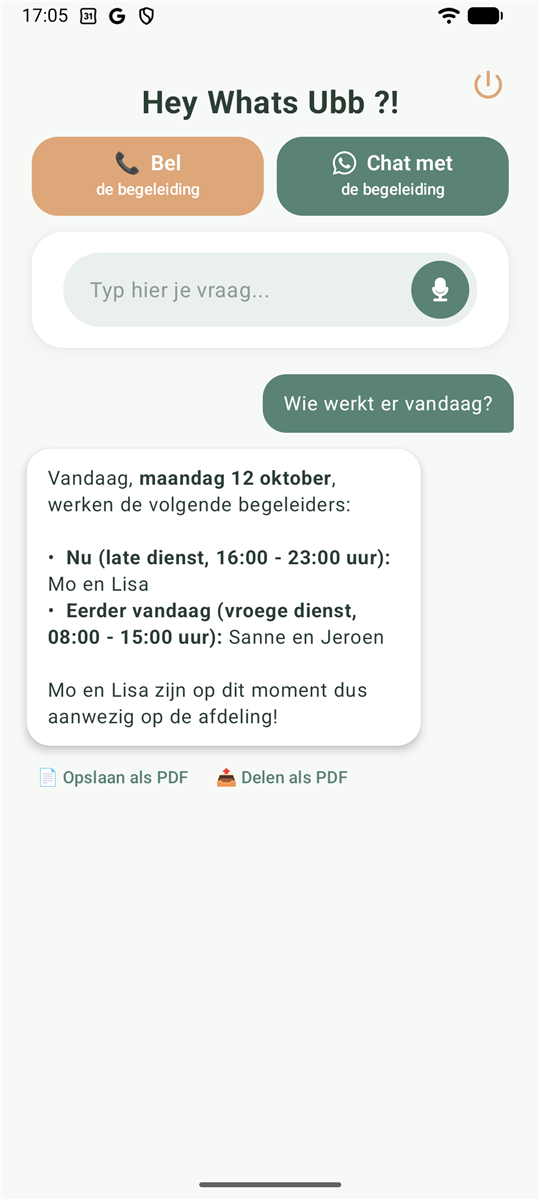
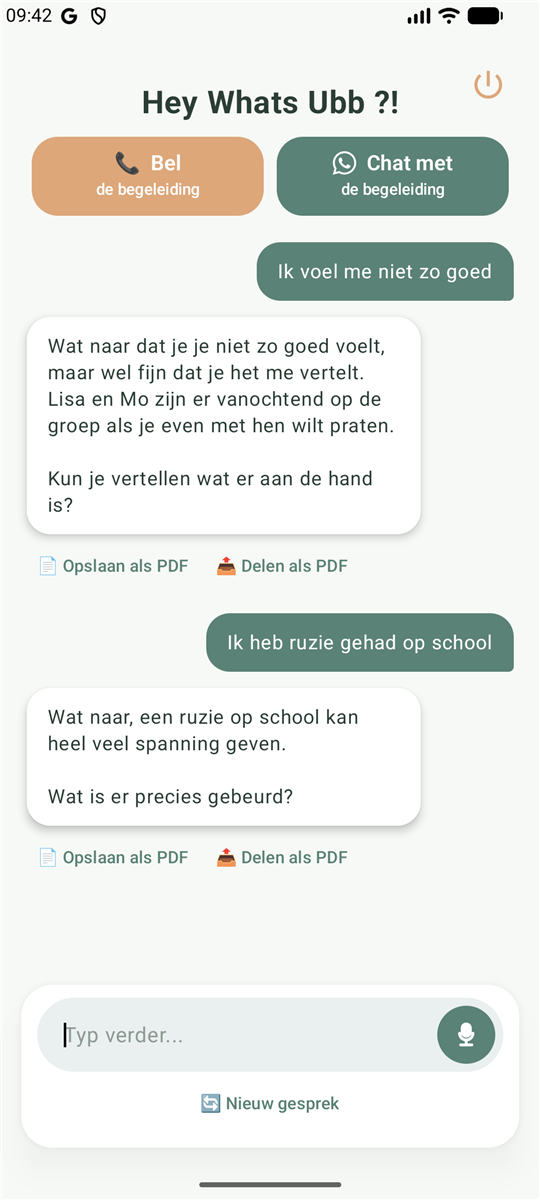
Versie 1.9.0: doorpraten zoals bij online AI-chats, AI vraagt door bij gevoelens
- Tijdens een gesprek staat het invoerveld onderaan; na elk antwoord staat de
  cursor weer klaar en Enter verstuurt. Knop 'Nieuw gesprek'.
- Bij gevoelens vraagt de AI eerst door voordat hij stappen noemt, en noemt hij
  de begeleiding niet meer in elk antwoord.
- README: nieuwe functies en screenshot van een gesprek.

diff --git a/app/src/main/java/com/example/whatsubb/ui/ChatScreen.kt b/app/src/main/java/com/example/whatsubb/ui/ChatScreen.kt
@@ -26,8 +26,10 @@ import androidx.compose.runtime.*
 import androidx.compose.ui.Alignment
 import androidx.compose.ui.Modifier
 import androidx.compose.ui.draw.shadow
+import androidx.compose.ui.focus.FocusRequester
 import androidx.compose.ui.graphics.Color
 import androidx.compose.ui.platform.LocalContext
+import androidx.compose.ui.platform.LocalSoftwareKeyboardController
 import androidx.compose.ui.res.painterResource
 import androidx.compose.ui.text.font.FontWeight
 import androidx.compose.ui.text.style.TextAlign
@@ -68,8 +70,8 @@ fun ChatScreen(
     val listState = rememberLazyListState()
     var pending by remember { mutableStateOf<Job?>(null) } // lopende vraag aan de AI
 
-    // Terug-toets tijdens een gesprek: gesprek wissen en terug naar het welkomstscherm met de voorbeeldvragen.
-    BackHandler(enabled = messages.isNotEmpty() || isLoading) {
+    // Gesprek wissen en terug naar het welkomstscherm met de voorbeeldvragen.
+    fun clearConversation() {
         pending?.cancel()
         messages.clear()
         history.clear()
@@ -77,9 +79,21 @@ fun ChatScreen(
         lastScrubCount = 0
     }
 
+    BackHandler(enabled = messages.isNotEmpty() || isLoading) { clearConversation() }
+
     LaunchedEffect(messages.size, isLoading) {
         val count = messages.size + if (isLoading) 1 else 0
         if (count > 0) listState.animateScrollToItem(count - 1)
+    }
+
+    // Tijdens een gesprek staat de cursor steeds klaar in het invoerveld onderaan, ook na een antwoord.
+    val inputFocus = remember { FocusRequester() }
+    val keyboard = LocalSoftwareKeyboardController.current
+    LaunchedEffect(messages.isNotEmpty() || isLoading, isLoading) {
+        if (messages.isNotEmpty() || isLoading) {
+            runCatching { inputFocus.requestFocus() }
+            keyboard?.show()
+        }
     }
 
     val speechLauncher = rememberLauncherForActivityResult(ActivityResultContracts.StartActivityForResult()) { result ->
@@ -278,6 +292,63 @@ fun ChatScreen(
                 Spacer(modifier = Modifier.height(if (messages.isEmpty()) 20.dp else 12.dp))
             }
 
+            val inConversation = messages.isNotEmpty() || isLoading
+            if (inConversation) {
+                // Gesprek zoals bij online AI-chats: berichten scrollen, het invoerveld blijft onderaan staan.
+                LazyColumn(
+                    state = listState,
+                    modifier = Modifier.fillMaxWidth().weight(1f),
+                    verticalArrangement = Arrangement.spacedBy(12.dp),
+                    contentPadding = PaddingValues(vertical = 8.dp, horizontal = 4.dp)
+                ) {
+                    items(messages) { msg ->
+                        Column {
+                            ChatBubble(message = msg)
+                            if (!msg.isUser && !msg.isError) {
+                                AnswerPdfActions(onSave = { savePdf(msg) }, onShare = { sharePdf(msg) })
+                            }
+                            if (msg.show113) Help113Card(onCall = { startCall(HELP_113_PHONE) }, onChat = ::open113Chat)
+                        }
+                    }
+                    if (isLoading) item { TypingBubble() }
+                }
+
+                PrivacyNotice(lastScrubCount)
+
+                Card(
+                    modifier = Modifier
+                        .fillMaxWidth()
+                        .padding(top = 4.dp)
+                        .shadow(
+                            elevation = 12.dp,
+                            shape = RoundedCornerShape(24.dp),
+                            spotColor = Color.Black.copy(alpha = 0.15f)
+                        ),
+                    shape = RoundedCornerShape(24.dp),
+                    colors = CardDefaults.cardColors(containerColor = Color.White)
+                ) {
+                    Column(modifier = Modifier.fillMaxWidth().padding(horizontal = 12.dp, vertical = 10.dp)) {
+                        ChatInputPill(
+                            value = questionText,
+                            onValueChange = { questionText = it },
+                            placeholder = "Typ verder...",
+                            enabled = !isLoading,
+                            onSend = { send() },
+                            onMic = ::startListening,
+                            focusRequester = inputFocus
+                        )
+                        TextButton(
+                            onClick = ::clearConversation,
+                            contentPadding = PaddingValues(horizontal = 8.dp),
+                            modifier = Modifier.align(Alignment.CenterHorizontally)
+                        ) {
+                            Text("🔄 Nieuw gesprek", fontSize = 13.sp, color = SagePrimary)
+                        }
+                    }
+                }
+                return@Column
+            }
+
             // Zwevende witte kaart met de vraag en het invoerveld
             Card(
                 modifier = Modifier
@@ -362,27 +433,6 @@ fun ChatScreen(
             }
 
             PrivacyNotice(lastScrubCount)
-
-            if (messages.isNotEmpty() || isLoading) {
-                Spacer(modifier = Modifier.height(12.dp))
-                LazyColumn(
-                    state = listState,
-                    modifier = Modifier.fillMaxWidth().weight(1f),
-                    verticalArrangement = Arrangement.spacedBy(12.dp),
-                    contentPadding = PaddingValues(vertical = 8.dp, horizontal = 4.dp)
-                ) {
-                    items(messages) { msg ->
-                        Column {
-                            ChatBubble(message = msg)
-                            if (!msg.isUser && !msg.isError) {
-                                AnswerPdfActions(onSave = { savePdf(msg) }, onShare = { sharePdf(msg) })
-                            }
-                            if (msg.show113) Help113Card(onCall = { startCall(HELP_113_PHONE) }, onChat = ::open113Chat)
-                        }
-                    }
-                    if (isLoading) item { TypingBubble() }
-                }
-            }
         }
 
         // Na de inhoud, zodat de knop bovenop ligt en tikken aankomen.

diff --git a/app/src/main/java/com/example/whatsubb/ui/Components.kt b/app/src/main/java/com/example/whatsubb/ui/Components.kt
@@ -7,11 +7,23 @@ import androidx.compose.foundation.layout.*
 import androidx.compose.foundation.shape.CircleShape
 import androidx.compose.foundation.shape.RoundedCornerShape
 import androidx.compose.foundation.text.BasicTextField
+import androidx.compose.foundation.text.KeyboardActions
+import androidx.compose.foundation.text.KeyboardOptions
 import androidx.compose.material3.*
 import androidx.compose.runtime.Composable
 import androidx.compose.ui.Alignment
 import androidx.compose.ui.Modifier
 import androidx.compose.ui.draw.shadow
+import androidx.compose.ui.focus.FocusRequester
+import androidx.compose.ui.focus.focusRequester
+import androidx.compose.ui.input.key.Key
+import androidx.compose.ui.input.key.KeyEventType
+import androidx.compose.ui.input.key.isShiftPressed
+import androidx.compose.ui.input.key.key
+import androidx.compose.ui.input.key.onPreviewKeyEvent
+import androidx.compose.ui.input.key.type
+import androidx.compose.ui.text.input.ImeAction
+import androidx.compose.ui.text.input.KeyboardCapitalization
 import androidx.compose.ui.geometry.CornerRadius
 import androidx.compose.ui.geometry.Offset
 import androidx.compose.ui.geometry.Size
@@ -55,7 +67,11 @@ fun ScreenHeader(title: String, actionLabel: String, onAction: () -> Unit, modif
     }
 }
 
-/** Grijze invoer-pil met een groene ronde knop: microfoon als het veld leeg is, anders verzenden. */
+/**
+ * Grijze invoer-pil met een groene ronde knop: microfoon als het veld leeg is, anders verzenden.
+ * Enter verstuurt ook. Het veld blijft typbaar als [enabled] false is (bijv. tijdens wachten op een antwoord),
+ * zodat de cursor en het toetsenbord blijven staan; alleen versturen kan dan niet.
+ */
 @Composable
 fun ChatInputPill(
     value: String,
@@ -63,8 +79,13 @@ fun ChatInputPill(
     placeholder: String,
     enabled: Boolean,
     onSend: () -> Unit,
-    onMic: () -> Unit
+    onMic: () -> Unit,
+    focusRequester: FocusRequester? = null
 ) {
+    fun trySend() {
+        if (enabled && value.isNotBlank()) onSend()
+    }
+
     Row(
         modifier = Modifier
             .fillMaxWidth()
@@ -81,9 +102,22 @@ fun ChatInputPill(
                 value = value,
                 onValueChange = onValueChange,
                 textStyle = TextStyle(fontSize = 16.sp, color = TextDark),
-                modifier = Modifier.fillMaxWidth(),
+                modifier = Modifier
+                    .fillMaxWidth()
+                    .then(if (focusRequester != null) Modifier.focusRequester(focusRequester) else Modifier)
+                    // Enter op een fysiek toetsenbord verstuurt; Shift+Enter geeft een nieuwe regel.
+                    .onPreviewKeyEvent { event ->
+                        if (event.key == Key.Enter && !event.isShiftPressed) {
+                            if (event.type == KeyEventType.KeyDown) trySend()
+                            true
+                        } else false
+                    },
                 maxLines = 5,
-                enabled = enabled
+                keyboardOptions = KeyboardOptions(
+                    capitalization = KeyboardCapitalization.Sentences,
+                    imeAction = ImeAction.Send
+                ),
+                keyboardActions = KeyboardActions(onSend = { trySend() })
             )
         }
         Spacer(modifier = Modifier.width(8.dp))

diff --git a/app/src/main/java/com/example/whatsubb/data/KnowledgeBase.kt b/app/src/main/java/com/example/whatsubb/data/KnowledgeBase.kt
@@ -124,9 +124,27 @@ class KnowledgeBase(
                 - Gebruik eenvoudige, korte zinnen (taalniveau B1). Wees vriendelijk, rustig en respectvol.
                 - De bewoner mag je alles vragen: over regels en afspraken, het weekmenu, wie er werkt,
                   hoe je iets moet doen (bijv. de was, een afspraak maken), en ook hoe de bewoner zich voelt.
-                - Gaat het over gevoelens (bang, verdrietig, boos, eenzaam, onrustig): luister eerst, laat merken
-                  dat je het begrijpt, stel hooguit één rustige vraag, en geef eventueel een kleine tip die nu kan helpen.
-                  Moedig aan om er ook met een begeleider over te praten; noem dan wie er volgens het rooster werkt als dat bekend is.
+                - Gaat het over gevoelens (bang, verdrietig, boos, eenzaam, onrustig, "niet fijn"): voer een echt
+                  gesprek in plaats van meteen een standaardantwoord met tips te geven. Dit gaat vóór "altijd een eerste
+                  helpende stap bieden" uit je rol.
+                  · Eerste antwoord: kort (2 à 3 zinnen). Laat merken dat je het hoort en dat het fijn is dat de bewoner
+                    het vertelt. Stel dan één open, nieuwsgierige vraag om te begrijpen wat er speelt, bijv.
+                    "Wat is er gebeurd?" of "Sinds wanneer voel je je zo?". Nog geen tips, stappen of lijstjes.
+                  · Daarna: vraag verder door op wat de bewoner vertelt (wat er gebeurde, hoe het voelt in je lijf,
+                    wat er nu het moeilijkst is, wat eerder hielp). Eén vraag per keer. Vat af en toe in eigen woorden
+                    samen wat je hoort, zodat de bewoner zich begrepen voelt. Gebruik woorden van de bewoner zelf.
+                  · Pas als je snapt wat er speelt, of als de bewoner zelf om hulp of tips vraagt: denk samen na over
+                    een kleine stap die nu kan helpen. Vraag eerst wat de bewoner zelf wil of al geprobeerd heeft.
+                  · Wil de bewoner niet vertellen waarom? Dat is oké; dring niet aan en bied gewoon aan dat je er bent.
+                  · De begeleiding noemen: niet in elk antwoord, dat voelt als afschuiven. Doe het kort en warm
+                    (noem wie er volgens het rooster werkt als dat bekend is) alleen op deze momenten:
+                    (1) in je eerste antwoord over het gevoel;
+                    (2) als je samen concrete stappen gaat bedenken: zeg dan dat een begeleider hierbij kan helpen;
+                    (3) als het gesprek langer doorgaat, ongeveer na elke 5 berichten van de bewoner nog één keer.
+                    Kijk in het gesprek hierboven wanneer je het voor het laatst noemde. Gebruik het nooit om het
+                    gesprek af te sluiten; blijf zelf in gesprek.
+                  · Hoor of vermoed je gevaar, zelfbeschadiging of suïcidale gedachten, dan gaat de regel hieronder
+                    over crisis vóór het doorvragen.
                 - Helpt de bewoner met iets praktisch? Leg het uit in kleine, genummerde stappen.
                 - Leg bij een afspraak uit wát de afspraak is en kort waaróm, zonder te betuttelen.
                 - Geef geen medisch, juridisch of medicatie-advies; verwijs dan naar de begeleiding of behandelaar.

diff --git a/README.md b/README.md
@@ -10,7 +10,7 @@
 </p>
 
 <p align="center">
-  <img alt="Versie" src="https://img.shields.io/badge/versie-1.8.1-5B8276">
+  <img alt="Versie" src="https://img.shields.io/badge/versie-1.9.0-5B8276">
   <img alt="Android" src="https://img.shields.io/badge/Android-7.0%2B-5B8276?logo=android&logoColor=white">
   <img alt="Kotlin" src="https://img.shields.io/badge/Kotlin-Jetpack%20Compose-DDA77A?logo=kotlin&logoColor=white">
   <img alt="AI" src="https://img.shields.io/badge/AI-Google%20Gemini-2C3E35?logo=googlegemini&logoColor=white">
@@ -51,13 +51,15 @@ Alles is gebouwd rond **anonimiteit**: er worden geen namen of persoonsgegevens 
   <tr>
     <td align="center"><img src="docs/screenshots/inloggen.png" alt="Inlogscherm" width="200"><br><sub>Inloggen</sub></td>
     <td align="center"><img src="docs/screenshots/bewoner-welkom.png" alt="Welkomstscherm bewoner (Hey Whats Ubb ?!), met bel- en chatknop en voorbeeldvragen" width="200"><br><sub>Welkom, bel- en chatknop</sub></td>
-    <td align="center"><img src="docs/screenshots/bewoner-chat.png" alt="Chat met de AI: wie werkt er vandaag?" width="200"><br><sub>Antwoord van de AI</sub></td>
+    <td align="center"><img src="docs/screenshots/bewoner-chat.png" alt="Gesprek met de AI: de AI vraagt door, het invoerveld staat onderaan" width="200"><br><sub>Doorpraten met de AI</sub></td>
   </tr>
 </table>
 
 | Functie | Wat doet het? |
 |---|---|
 | 💬 **Vraag alles** | Chat in eenvoudige taal (B1) over regels, afspraken, het weekmenu, het rooster, apparaten op de afdeling, praktische dingen en gevoelens |
+| 🔁 **Doorpraten** | Een gesprek zoals bij online AI-chats: het invoerveld staat onderaan, na elk antwoord staat de cursor weer klaar en je verstuurt met Enter. De AI onthoudt wat er eerder in het gesprek gezegd is. Met **🔄 Nieuw gesprek** begin je opnieuw |
+| 💛 **Echt luisteren** | Bij gevoelens vraagt de AI eerst rustig door (*"Wat is er gebeurd?"*) voordat hij met tips of stappen komt. Hij noemt de begeleiding bij het eerste antwoord, als jullie stappen bedenken en af en toe in een lang gesprek, niet in elk antwoord |
 | 🎙 **Spraak** | Microfoonknop in het invoerveld: inspreken in plaats van typen |
 | 👆 **Voorbeeldvragen** | Aanklikbare vragen zoals *"Wat eten we vanavond?"* en *"Ik voel me niet zo goed"* |
 | 📞 **Bel- en chatknop** | Eén tik om de begeleiding te bellen of via WhatsApp te chatten; tussen 23:00 en 08:00 de bereikbare dienst (met controlevraag) |
